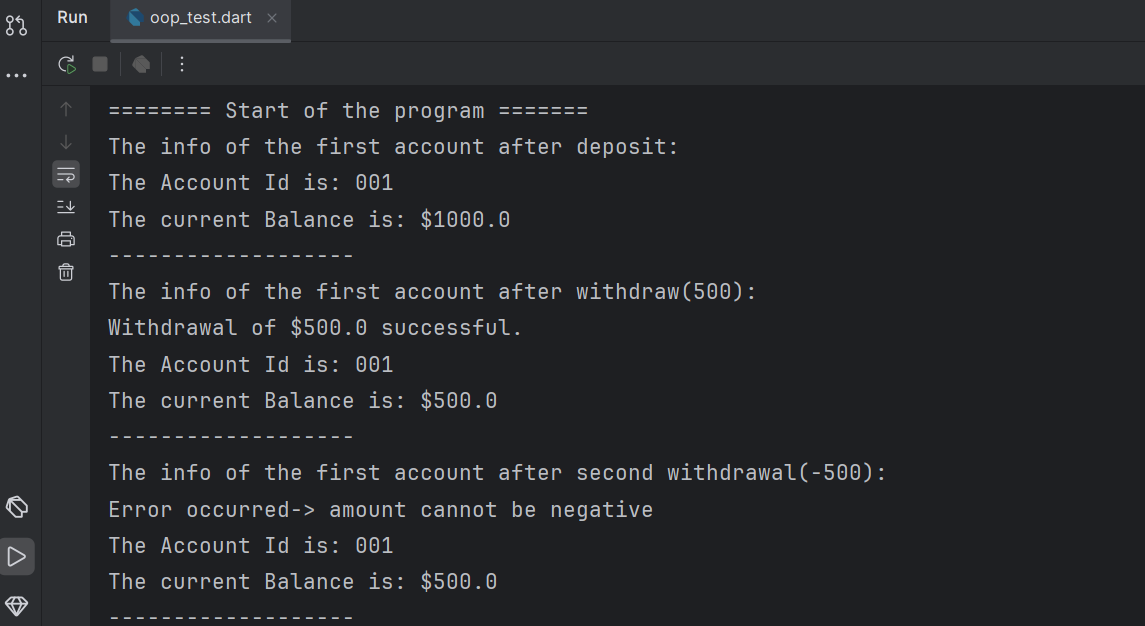
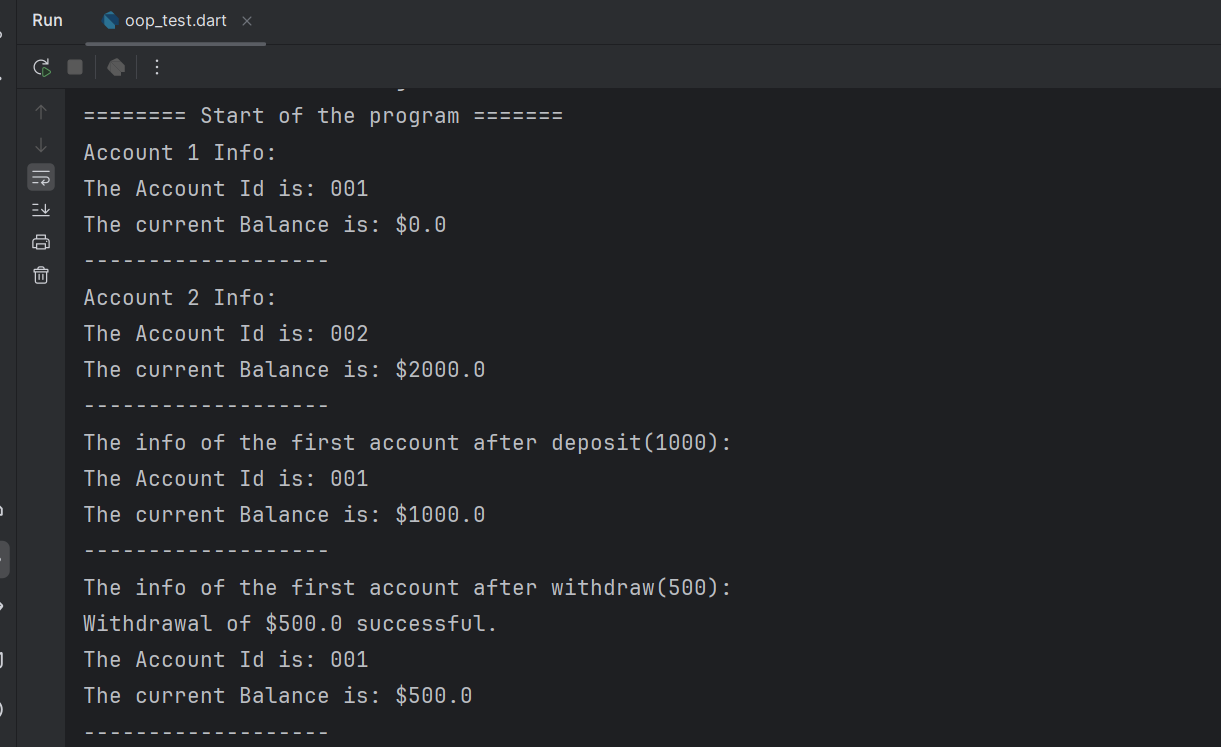
Update README.md & images

diff --git a/README.md b/README.md
@@ -9,8 +9,8 @@ balance and accountId).
 Code explanation:
 First, i created the bank account class with all of its data. Then i created two objects from the
 bank account class in main.dart file.
-The first account is created using the default constructor and the second account is created using
-the named constructor.
+The first account is created using the default constructor with zero balance and the second account
+is created using the named constructor with a balance of 2000.
 The scenario is tested by creating an account and depositing money, then withdraw money, and then
 printing the account information.
 
@@ -21,8 +21,8 @@ and finally printing the account information.
 The second scenario is withdrawing (-500) from 'bankAccount', and then printing the
 account information includes an error message if exists.
 
-The third scenario is creating `bankAccount2` object and depositing amount of 2000, then withdraw
-3000, and finally printing the
+The third scenario is creating `bankAccount2` object and depositing amount of 1000, then withdraw
+4000, and finally printing the
 account information includes an error message if exists.
 
 My code in bin/main.dart,   
